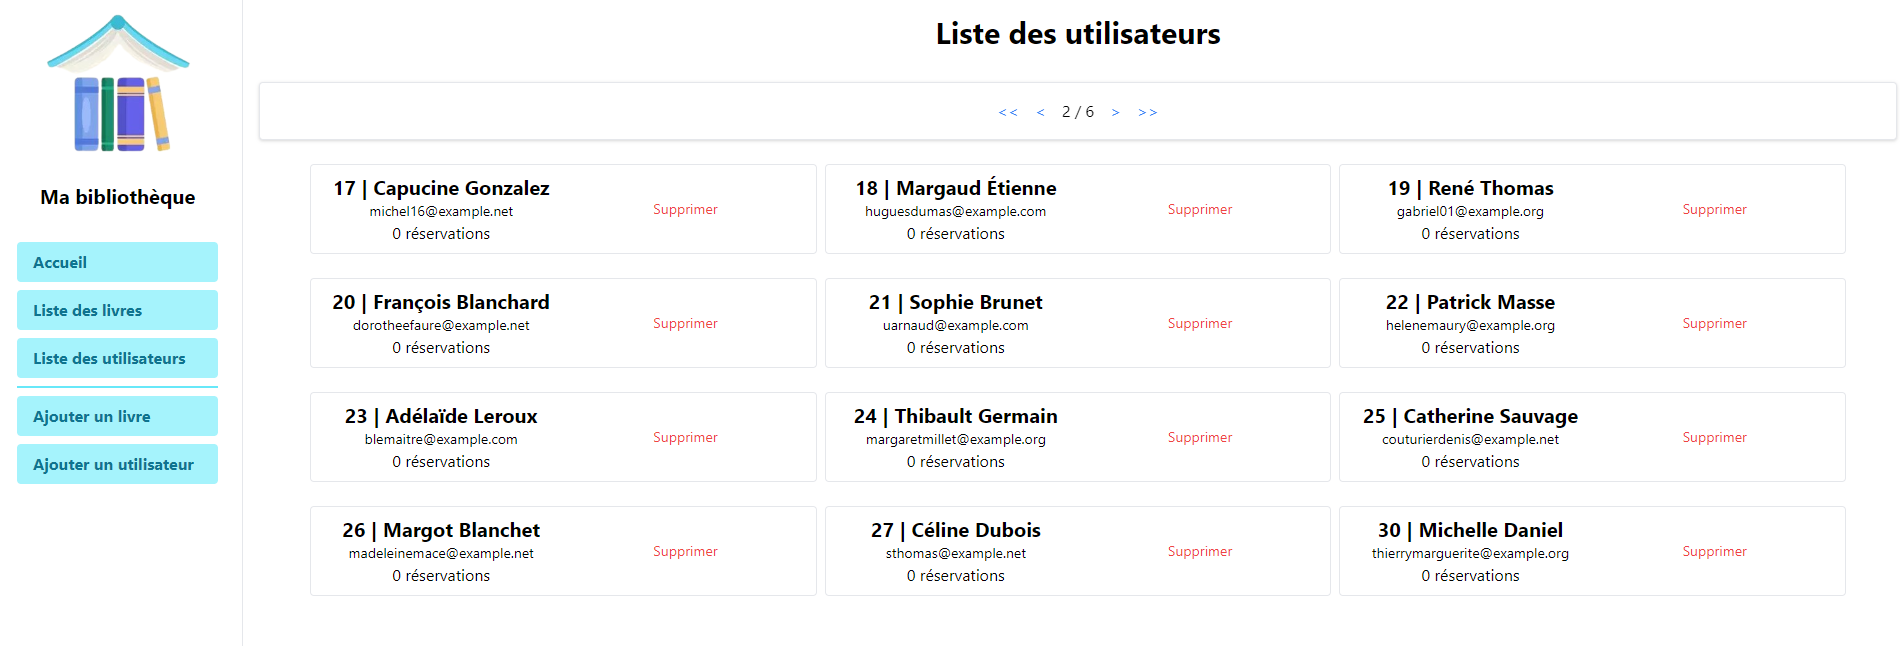
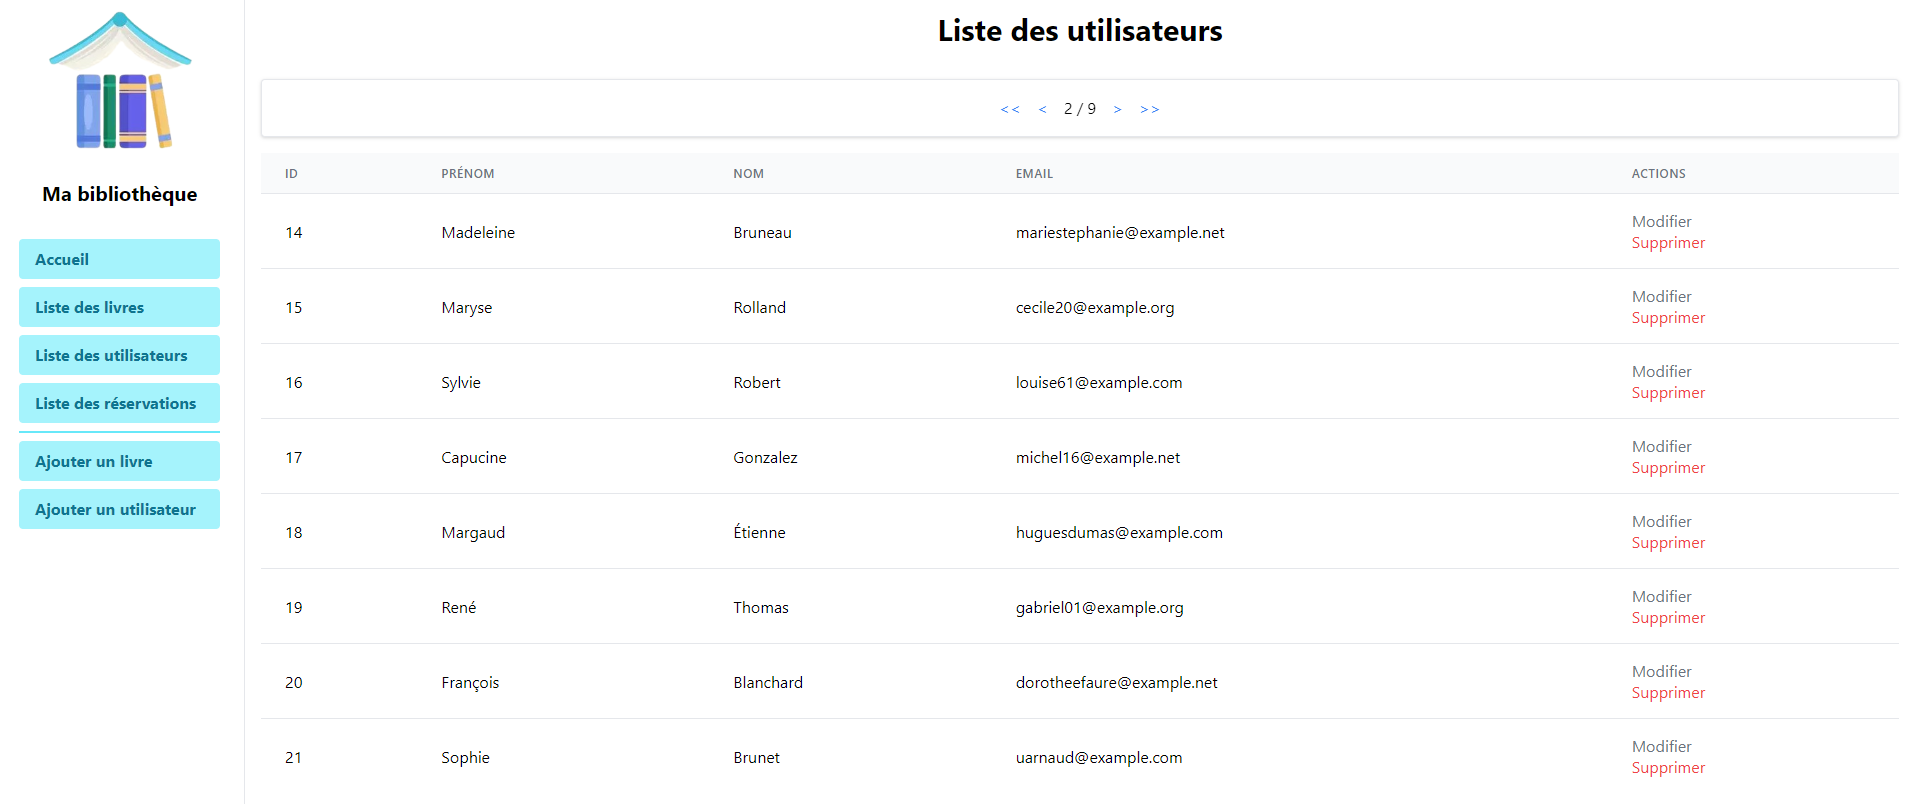
update design update user form

diff --git a/templates/user/update-user.html b/templates/user/update-user.html
@@ -1,26 +1,25 @@
 {% extends 'base/page.html' %}
 
 {% block content %}
-<h1 class="text-3xl font-bold text-center mt-4 mb-8">Modification d'un utilisateur</h1>
-<form action="/api/v1/user/update/{{ user_id }}" method="GET">
+<form action="/api/v1/user/update/{{ user_id }}" method="GET"  class="border rounded shadow p-6 bg-white my-14 container mx-auto flex flex-col gap-4" >
+    <h1 class="text-3xl font-bold text-center mt-4 mb-8">Modification d'un utilisateur</h1>
     {% if info %}
     <div class="bg-slate-100 p-4 rounded my-4 border">{{ info }}</div>
     {% endif %}
     <div class="flex flex-col">
         <div class="mb-4">
             <label for="first_name" class="block text-sm font-medium text-gray-700">Prénom</label>
-            <input type="text" name="first_name" id="first_name" value="{{ first_name }}" class="mt-1 block w-full rounded-md border-gray-300 shadow-sm focus:border-indigo-500 focus:ring-indigo-500 sm:text-sm">
+            <input type="text" name="first_name" id="first_name" value="{{ first_name }}" class="shadow appearance-none border rounded w-full py-2 px-3 text-gray-700 leading-tight focus:outline-none focus:shadow-outline">
         </div>
         <div class="mb-4">
             <label for="last_name" class="block text-sm font-medium text-gray-700">Nom</label>
-            <input type="text" name="last_name" id="last_name" value="{{ last_name }}" class="mt-1 block w-full rounded-md border-gray-300 shadow-sm focus:border-indigo-500 focus:ring-indigo-500 sm:text-sm">
+            <input type="text" name="last_name" id="last_name" value="{{ last_name }}" class="shadow appearance-none border rounded w-full py-2 px-3 text-gray-700 leading-tight focus:outline-none focus:shadow-outline">
         </div>
         <div class="mb-4">
             <label for="email" class="block text-sm font-medium text-gray-700">Email</label>
-            <input type="text" name="email" id="email" value="{{ email }}" class="mt-1 block w-full rounded-md border-gray-300 shadow-sm focus:border-indigo-500 focus:ring-indigo-500 sm:text-sm">
+            <input type="text" name="email" id="email" value="{{ email }}" class="shadow appearance-none border rounded w-full py-2 px-3 text-gray-700 leading-tight focus:outline-none focus:shadow-outline">
         </div>
-        <button type="submit" class="inline-flex justify-center py-2 px-4 border border-transparent shadow-sm text-sm font-medium rounded-md text-white bg-indigo-600 hover:bg-indigo-700 focus:outline-none focus:ring-2 focus:ring-offset
-                focus:ring-indigo-500">
+        <button type="submit" class="bg-cyan-500 hover:bg-cyan-700 text-white font-bold py-2 px-4 rounded transition duration-150 ease-in-out">
             Enregistrer
         </button>
     </div>

diff --git a/main.py b/main.py
@@ -52,7 +52,7 @@ def list_books():
 @app.route("/list-user", methods=["GET"])
 def list_user():
     page = request.args.get("page", 1, type=int)
-    per_page: int = 12
+    per_page: int = 8
     return render_template('user/list-user.html', data=UserController().get_all_users_page(page, per_page))
 
 
